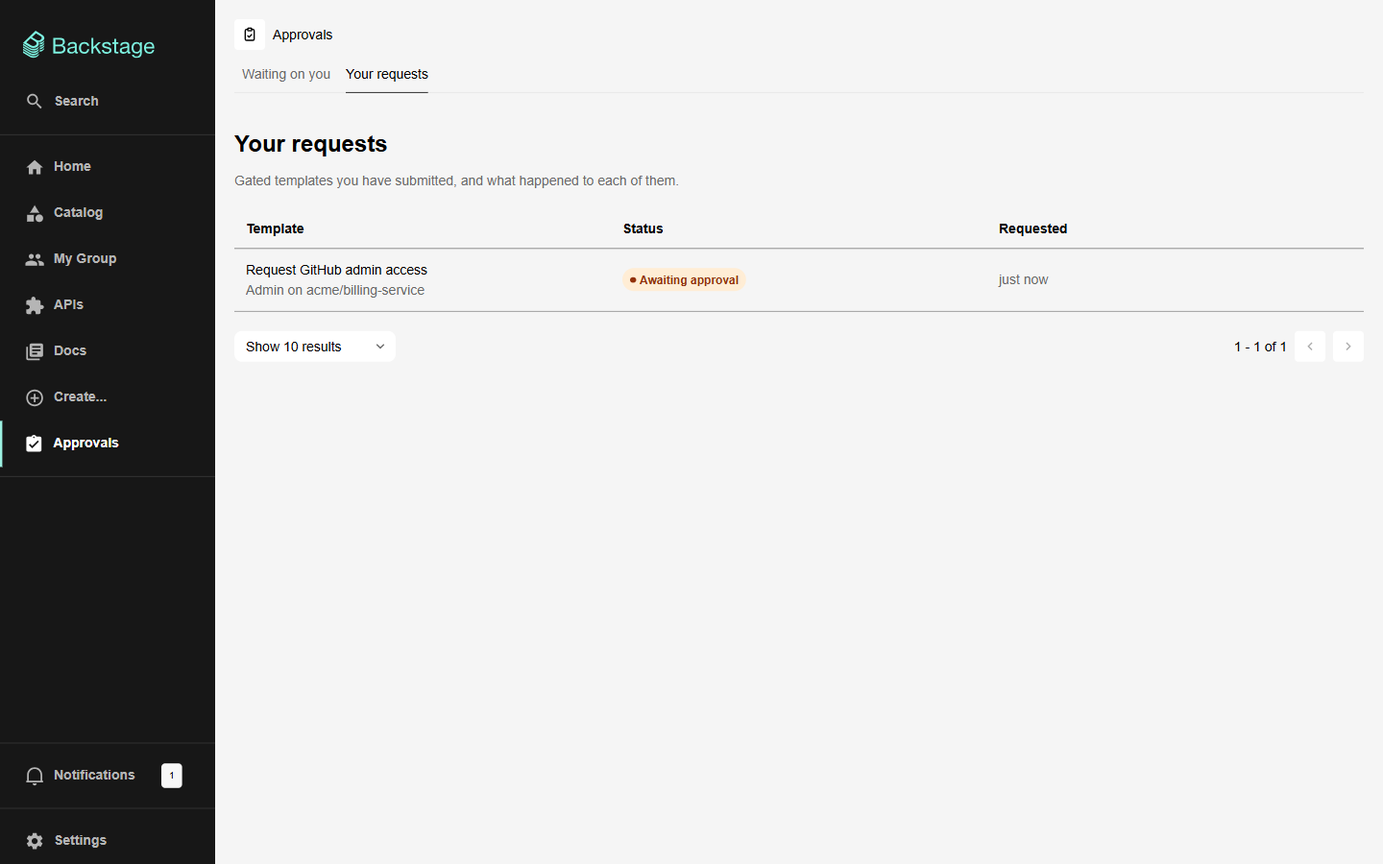
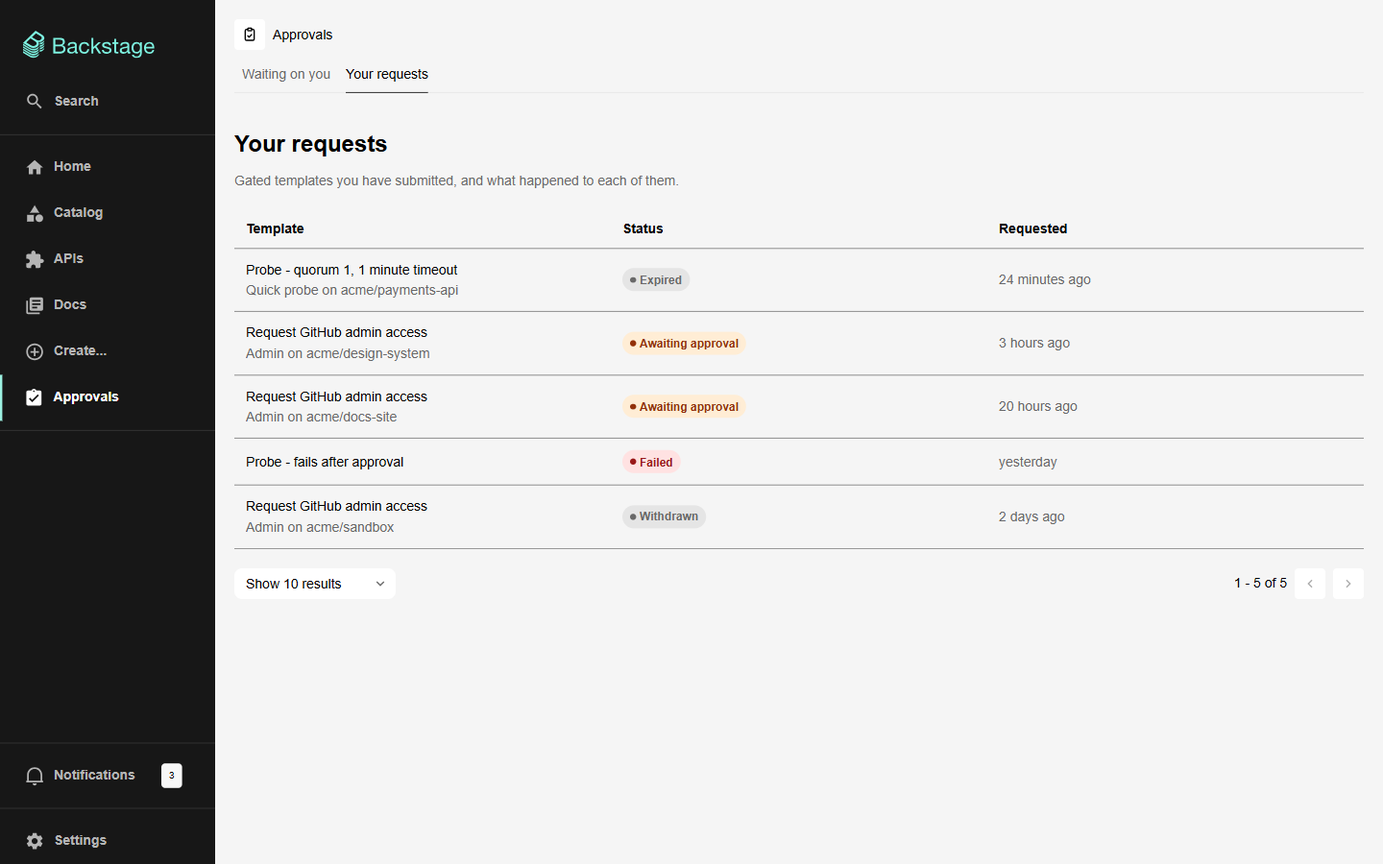
fix(scaffolder-approvals): request page layout and empty-list centring
- The request page no longer shows the "Waiting on you" and "Your
  requests" tabs: it belongs to neither list, and two tabs with neither
  selected read as a choice to make. The plugin's name in the header still
  links back to the inbox.
- Parameters move to the side column, under Details, each name over its
  value. On a narrow screen Details and Parameters now come straight after
  the decision panel, ahead of the activity history, so what is being
  decided is read before scrolling through who said what.
- The empty state of both lists is centred across the table rather than
  over its first column: BUI wraps it in a row-direction flex, so it now
  grows to the full width.

Screenshots in docs/browser-review/bui-redesign are retaken from a local
database seeded through the approvals API, and section 15 of the browser
review describes how.

diff --git a/plugins/scaffolder-approvals/src/components/RequestDetail/RequestDetail.tsx b/plugins/scaffolder-approvals/src/components/RequestDetail/RequestDetail.tsx
@@ -36,7 +36,6 @@ import {
   ButtonLink,
   Container,
   Flex,
-  Grid,
   Header,
   Skeleton,
   Text,
@@ -270,7 +269,7 @@ export function RequestDetail(props: RequestDetailProps) {
     request.requesterRef.toLocaleLowerCase('en-US');
 
   return (
-    <ApprovalsLayout>
+    <ApprovalsLayout tabs={false}>
       <RequestHeader request={request} status={status} />
 
       <Container>
@@ -279,29 +278,33 @@ export function RequestDetail(props: RequestDetailProps) {
               has to be read before the buttons. */}
           <DriftNotice drift={request.templateDrift} />
 
-          <Grid.Root columns={{ initial: '1', md: '3' }} gap="4">
-            <Grid.Item colSpan={{ initial: '1', md: '2' }}>
-              <Flex direction="column" gap="4">
-                <DecisionPanel
-                  request={request}
-                  status={status}
-                  progress={progress}
-                  eligibility={eligibility}
-                  isRequester={isRequester}
-                  busy={busy}
-                  onDecide={setDeciding}
-                  onWithdraw={() => setConfirmingWithdraw(true)}
-                  onResubmit={resubmit}
-                />
-                <RequestParameters request={request} />
-                <RequestActivity request={request} />
-              </Flex>
-            </Grid.Item>
+          <div className={styles.layout}>
+            <div className={styles.decision}>
+              <DecisionPanel
+                request={request}
+                status={status}
+                progress={progress}
+                eligibility={eligibility}
+                isRequester={isRequester}
+                busy={busy}
+                onDecide={setDeciding}
+                onWithdraw={() => setConfirmingWithdraw(true)}
+                onResubmit={resubmit}
+              />
+            </div>
 
-            <Grid.Item>
+            {/* Beside the decision on a wide screen, and straight under it on
+                a narrow one: what is being decided belongs next to the
+                buttons, ahead of the history. */}
+            <Flex direction="column" gap="4" className={styles.aside}>
               <RequestDetails request={request} status={status} />
-            </Grid.Item>
-          </Grid.Root>
+              <RequestParameters request={request} />
+            </Flex>
+
+            <div className={styles.activity}>
+              <RequestActivity request={request} />
+            </div>
+          </div>
         </Flex>
 
         {deciding && (
@@ -330,22 +333,23 @@ export function RequestDetail(props: RequestDetailProps) {
 /** The page's shape while the request loads, so nothing jumps when it lands. */
 function RequestSkeleton() {
   return (
-    <ApprovalsLayout>
+    <ApprovalsLayout tabs={false}>
       <Container>
         <Flex direction="column" gap="4" py="3" aria-busy="true">
           <Skeleton width="40%" height={32} />
           <Skeleton width="20%" height={18} />
-          <Grid.Root columns={{ initial: '1', md: '3' }} gap="4">
-            <Grid.Item colSpan={{ initial: '1', md: '2' }}>
-              <Flex direction="column" gap="4">
-                <Skeleton height={140} />
-                <Skeleton height={120} />
-              </Flex>
-            </Grid.Item>
-            <Grid.Item>
+          <div className={styles.layout}>
+            <div className={styles.decision}>
+              <Skeleton height={140} />
+            </div>
+            <Flex direction="column" gap="4" className={styles.aside}>
               <Skeleton height={200} />
-            </Grid.Item>
-          </Grid.Root>
+              <Skeleton height={120} />
+            </Flex>
+            <div className={styles.activity}>
+              <Skeleton height={160} />
+            </div>
+          </div>
         </Flex>
       </Container>
     </ApprovalsLayout>
@@ -423,7 +427,7 @@ function RequestLoadError(props: { error: Error }) {
   }
 
   return (
-    <ApprovalsLayout title="Approval request">
+    <ApprovalsLayout title="Approval request" tabs={false}>
       <Header title="Approval request" />
       <Container>{body}</Container>
     </ApprovalsLayout>

diff --git a/plugins/scaffolder-approvals/src/components/RequestDetail/RequestDetail.module.css b/plugins/scaffolder-approvals/src/components/RequestDetail/RequestDetail.module.css
@@ -39,6 +39,52 @@
   overflow-wrap: anywhere;
 }
 
+/*
+ * The page's grid. Named areas rather than BUI's Grid, because the order has
+ * to differ by width: on a wide screen the details and parameters sit beside
+ * the decision and its history; on a narrow one they come straight after the
+ * decision, ahead of the history, so what is being decided is read before
+ * scrolling through who said what. 1024px is BUI's `md` breakpoint.
+ */
+
+.layout {
+  display: grid;
+  grid-template-columns: minmax(0, 1fr);
+  grid-template-areas:
+    'decision'
+    'aside'
+    'activity';
+  gap: var(--bui-space-4);
+  align-items: start;
+}
+
+.decision {
+  grid-area: decision;
+  min-width: 0;
+}
+
+.aside {
+  grid-area: aside;
+  min-width: 0;
+}
+
+.activity {
+  grid-area: activity;
+  min-width: 0;
+}
+
+@media (min-width: 1024px) {
+  .layout {
+    grid-template-columns: minmax(0, 2fr) minmax(0, 1fr);
+    /* The side column spans both rows; the flexible second row takes any
+       height it adds, so the history still starts right under the panel. */
+    grid-template-rows: auto 1fr;
+    grid-template-areas:
+      'decision aside'
+      'activity aside';
+  }
+}
+
 /* The decision panel: tinted by where the request stands. */
 
 .panel {
@@ -134,7 +180,8 @@
   background-color: var(--bui-fg-success);
 }
 
-/* Parameters: a key/value list that stacks on a phone. */
+/* Parameters: each name over its value, as Details lays out its facts. The
+   card sits in the narrow side column, which has no room for two. */
 
 .values {
   display: flex;
@@ -143,9 +190,9 @@
 }
 
 .valueRow {
-  display: grid;
-  grid-template-columns: minmax(120px, 30%) minmax(0, 1fr);
-  gap: var(--bui-space-3);
+  display: flex;
+  flex-direction: column;
+  gap: var(--bui-space-1);
   padding-block: var(--bui-space-2);
   border-top: 1px solid var(--bui-border-1);
 }
@@ -190,13 +237,6 @@
   color: var(--bui-fg-primary);
   font-family: var(--bui-font-monospace);
   font-size: var(--bui-font-size-2);
-}
-
-@media (max-width: 640px) {
-  .valueRow {
-    grid-template-columns: minmax(0, 1fr);
-    gap: var(--bui-space-1);
-  }
 }
 
 /* Activity: a vertical timeline, one person per event. */

diff --git a/plugins/scaffolder-approvals/src/components/ApprovalsLayout.tsx b/plugins/scaffolder-approvals/src/components/ApprovalsLayout.tsx
@@ -51,8 +51,7 @@ export function DocumentTitle(props: { title: string }) {
  *
  * The tabs are routes rather than in-page state, so each list has an address:
  * going back from a request returns to the list it was opened from, and
- * "Your requests" can be linked to. A request page keeps the tabs, with
- * neither selected, as the way back to both lists.
+ * "Your requests" can be linked to.
  *
  * Drawn by the plugin in both frontend systems: the new one is told not to
  * draw its own (`noHeader`), so the two look the same.
@@ -67,9 +66,16 @@ export function ApprovalsLayout(props: {
    * rewrites the title as it changes and could put the first one back.
    */
   title?: string;
+  /**
+   * Whether to show the two lists as tabs. A request page leaves them out:
+   * it belongs to neither list, and two tabs with neither selected read as a
+   * choice to make. Its way back is the plugin's name, which links to the
+   * inbox.
+   */
+  tabs?: boolean;
   children: ReactNode;
 }) {
-  const { title, children } = props;
+  const { title, tabs = true, children } = props;
   const rootPath = useRouteRef(rootRouteRef)();
 
   return (
@@ -79,19 +85,23 @@ export function ApprovalsLayout(props: {
         icon={<ApprovalsIcon fontSize="inherit" />}
         title="Approvals"
         titleLink={rootPath}
-        tabs={[
-          {
-            id: 'inbox',
-            label: 'Waiting on you',
-            href: rootPath,
-            matchStrategy: 'exact',
-          },
-          {
-            id: 'mine',
-            label: 'Your requests',
-            href: `${rootPath}${YOUR_REQUESTS_PATH}`,
-          },
-        ]}
+        tabs={
+          tabs
+            ? [
+                {
+                  id: 'inbox',
+                  label: 'Waiting on you',
+                  href: rootPath,
+                  matchStrategy: 'exact',
+                },
+                {
+                  id: 'mine',
+                  label: 'Your requests',
+                  href: `${rootPath}${YOUR_REQUESTS_PATH}`,
+                },
+              ]
+            : undefined
+        }
       />
       {children}
     </>

diff --git a/plugins/scaffolder-approvals/src/components/RequestDetail/RequestDetail.test.tsx b/plugins/scaffolder-approvals/src/components/RequestDetail/RequestDetail.test.tsx
@@ -142,18 +142,16 @@ describe('RequestDetail', () => {
     expect(label?.nextElementSibling).toHaveTextContent('Awaiting approval');
   });
 
-  it('keeps the way back to both lists', async () => {
-    // The plugin header's tabs, with neither selected on a request.
+  it('leaves the list tabs out, and links back through the plugin name', async () => {
+    // A request belongs to neither list, and two tabs with neither selected
+    // read as a choice to make.
     await render({ getRequest: jest.fn().mockResolvedValue(REQUEST) });
 
     await screen.findByText('Admin on backstage');
-    expect(screen.getByRole('tab', { name: 'Waiting on you' })).toHaveAttribute(
+    expect(screen.queryByRole('tab')).not.toBeInTheDocument();
+    expect(screen.getByRole('link', { name: 'Approvals' })).toHaveAttribute(
       'href',
       '/scaffolder-approvals',
-    );
-    expect(screen.getByRole('tab', { name: 'Your requests' })).toHaveAttribute(
-      'href',
-      '/scaffolder-approvals/mine',
     );
   });
 

diff --git a/plugins/scaffolder-approvals/src/components/ApprovalsPage/RequestsTable.tsx b/plugins/scaffolder-approvals/src/components/ApprovalsPage/RequestsTable.tsx
@@ -90,6 +90,10 @@ function RequesterCell(props: { item: Row }) {
  * Not core-components' `EmptyState`: its illustration is taller than the
  * table's empty row, so the table overflowed BUI's scroll container and
  * showed a scrollbar with nothing to scroll (B15 in the browser review).
+ *
+ * `grow`, because BUI puts the empty state in a row of its own: without it
+ * this took only its content's width, and sat centred over the first column
+ * rather than the table.
  */
 function EmptyRow(props: { title: string; description: string }) {
   return (
@@ -99,6 +103,7 @@ function EmptyRow(props: { title: string; description: string }) {
       gap="2"
       py="8"
       px="4"
+      grow
       className={styles.empty}
     >
       <span className={styles.emptyIcon} aria-hidden="true">

diff --git a/plugins/scaffolder-approvals/src/components/RequestDetail/RequestSections.tsx b/plugins/scaffolder-approvals/src/components/RequestDetail/RequestSections.tsx
@@ -78,7 +78,7 @@ export function RequestParameters(props: {
       <Text color="secondary">
         The submitted parameters were removed on{' '}
         {redactedAt ? formatDateTime(redactedAt) : 'expiry'} by the retention
-        policy. The decision history below is kept indefinitely.
+        policy. The decision history is kept indefinitely.
       </Text>
     );
   } else if (Object.keys(values).length === 0) {

diff --git a/docs/GATED_SCAFFOLDER_BROWSER_REVIEW.md b/docs/GATED_SCAFFOLDER_BROWSER_REVIEW.md
@@ -1023,37 +1023,43 @@ On 3 Oct 2026, on the branch `feat/bui-redesign`, the frontend plugin's pages we
 
 ### 15.1 What changed
 
-| Page               | Now                                                                                                                                                                                                                                                                                                                                                                                                                                                  |
-| ------------------ | ---------------------------------------------------------------------------------------------------------------------------------------------------------------------------------------------------------------------------------------------------------------------------------------------------------------------------------------------------------------------------------------------------------------------------------------------------- |
-| Every page         | BUI's `PluginHeader` names the plugin, with **Waiting on you** and **Your requests** as route tabs: `/scaffolder-approvals` and the new `/scaffolder-approvals/mine`, so going back from a request returns to the list it came from. BUI's `Header` titles each page, and the tab title is set as core-components' header set it. The new frontend system's page is registered with `noHeader`, so the plugin's header is the only one.              |
-| Request page       | A decision panel at the top, tinted by status, holds the outcome or "1 of 2 approvals needed." with a quorum meter, who can approve, and whatever the viewer can do: Approve and Deny, the reason they cannot, Withdraw, Resubmit or **View task log**. Below it, Parameters as a key/value list, Activity as a timeline of who asked and who decided, with their comments, and a Details card. The drift warning is a BUI `Alert`, above all of it. |
-| Lists              | The requester's initials beside their name, relative times with the exact time on hover, and an empty state with an icon.                                                                                                                                                                                                                                                                                                                            |
-| Status pill        | BUI's `Badge`, tinted from BUI's status colours, at a readable size.                                                                                                                                                                                                                                                                                                                                                                                 |
-| Dialogs            | Deny and Withdraw confirm with destructive buttons, and name the request in bold.                                                                                                                                                                                                                                                                                                                                                                    |
-| Wizard review step | An outlined notice card with the approvers, and Back and **Request approval** where the scaffolder puts Back and Create. A template the backend would refuse is a danger `Alert`.                                                                                                                                                                                                                                                                    |
-| Home card          | A BUI `Card` with an icon tile that turns amber when something is waiting.                                                                                                                                                                                                                                                                                                                                                                           |
+| Page               | Now                                                                                                                                                                                                                                                                                                                                                                                                                                                                                                                                                                              |
+| ------------------ | -------------------------------------------------------------------------------------------------------------------------------------------------------------------------------------------------------------------------------------------------------------------------------------------------------------------------------------------------------------------------------------------------------------------------------------------------------------------------------------------------------------------------------------------------------------------------------- |
+| Every page         | BUI's `PluginHeader` names the plugin, and on the two lists carries **Waiting on you** and **Your requests** as route tabs: `/scaffolder-approvals` and the new `/scaffolder-approvals/mine`, so going back from a request returns to the list it came from. A request page leaves the tabs out, since it belongs to neither list; the plugin's name links back to the inbox. BUI's `Header` titles each page, and the tab title is set as core-components' header set it. The new frontend system's page is registered with `noHeader`, so the plugin's header is the only one. |
+| Request page       | A decision panel at the top, tinted by status, holds the outcome or "1 of 2 approvals needed." with a quorum meter, who can approve, and whatever the viewer can do: Approve and Deny, the reason they cannot, Withdraw, Resubmit or **View task log**. Activity, a timeline of who asked and who decided with their comments, sits under it; Details and Parameters sit beside it, and on a narrow screen come straight after it, ahead of the history. The drift warning is a BUI `Alert`, above all of it.                                                                    |
+| Lists              | The requester's initials beside their name, relative times with the exact time on hover, and an empty state centred across the table.                                                                                                                                                                                                                                                                                                                                                                                                                                            |
+| Status pill        | BUI's `Badge`, tinted from BUI's status colours, at a readable size.                                                                                                                                                                                                                                                                                                                                                                                                                                                                                                             |
+| Dialogs            | Deny and Withdraw confirm with destructive buttons, and name the request in bold.                                                                                                                                                                                                                                                                                                                                                                                                                                                                                                |
+| Wizard review step | An outlined notice card with the approvers, and Back and **Request approval** where the scaffolder puts Back and Create. A template the backend would refuse is a danger `Alert`.                                                                                                                                                                                                                                                                                                                                                                                                |
+| Home card          | A BUI `Card` with an icon tile that turns amber when something is waiting.                                                                                                                                                                                                                                                                                                                                                                                                                                                                                                       |
 
 ### 15.2 Tests
 
-The component tests were kept, and adjusted only where they asserted the old markup: the header is no longer a `banner` landmark, the request's title is the page's second-level heading under the plugin header's "Approvals", and the two lists are route tabs rather than tab panels. The test for the two tabs now checks that each links to its list, and one was added for the same tabs on a request page.
+The component tests were kept, and adjusted only where they asserted the old markup: the header is no longer a `banner` landmark, the request's title is the page's second-level heading under the plugin header's "Approvals", and the two lists are route tabs rather than tab panels. The test for the two tabs now checks that each links to its list, and one was added for a request page: no tabs, and the plugin's name links to the inbox.
 
 ### 15.3 In the browser
 
-Run against the full app on a scratch database, as `requester`, `alice` and `bob`, and against the dev harness, through the Playwright MCP server at 1440×900 and 390×844, in both themes.
+Run through the Playwright MCP server at 1440×900 and 390×844, in both themes, against the full app and against the dev harness.
 
-| Journey                                                                           | Screens        |
-| --------------------------------------------------------------------------------- | -------------- |
-| The requester submits from the wizard and lands on their pending request          | 03, 05, 02     |
-| Alice approves with a comment; the request stays pending, one of two              | 16, 01, 07, 18 |
-| Bob approves; the template runs and the request completes, with its task link     | 06             |
-| The drift warning, above the decide buttons (API response patched in the browser) | 04             |
-| Withdrawing asks first                                                            | 08             |
-| A template the backend would refuse                                               | 17             |
-| An empty inbox and home card, and a link to a request that does not exist         | 11, 12, 13     |
-| Dark theme                                                                        | 09, 10         |
-| Phone width: titles wrap rather than truncate, and nothing scrolls sideways       | 14, 15         |
+The flows were walked end to end on a scratch database first, as `requester`, `alice` and `bob`: submitting from the wizard, a first approval that leaves a request pending, a second that launches the template and completes it with its task link, withdrawing, and denying. The repository's local database was then seeded the same way, through the approvals API, signed in in turn as the default guest, `requester`, `outsider`, `alice` and `bob`, so every request, hash, decision and task is a real one: 22 requests across every status, three of them run by the scaffolder to completion and three to failure. Their timestamps were then spread over five weeks, one old request was redacted as the retention sweep would, and the default guest was added as an approver on five pending requests, so that a plain `yarn start` has an inbox to look at.
 
-Denying and withdrawing were also carried through to their end states in the dev harness.
+The screenshots are of that data, signed in as the default guest:
+
+| Screen | What it shows                                                                                         |
+| ------ | ----------------------------------------------------------------------------------------------------- |
+| 01     | The inbox: five requests the guest can decide                                                         |
+| 02     | Your requests: every status the guest's own requests reached                                          |
+| 03     | The wizard's review step for a gated template                                                         |
+| 04     | The drift warning, above the decide buttons (API response patched in the browser)                     |
+| 05, 18 | The guest's own requests, pending and one approval in                                                 |
+| 06     | A completed request, with its task link                                                               |
+| 07, 08 | The approve and withdraw dialogs                                                                      |
+| 09, 10 | Dark theme                                                                                            |
+| 11, 12 | Empty inbox and home card (list answered empty in the browser)                                        |
+| 13     | A link to a request that does not exist                                                               |
+| 14, 15 | Phone width: titles wrap rather than truncate, and the details and parameters come before the history |
+| 16     | The home card with requests waiting                                                                   |
+| 17     | A template the backend would refuse                                                                   |
 
 ### 15.4 Still open
 

diff --git a/plugins/scaffolder-approvals/README.md b/plugins/scaffolder-approvals/README.md
@@ -40,7 +40,7 @@ Both entrypoints mount the same components; only the wiring differs.
 
 The inbox lists only pending requests — somebody looking for work does not want a history of everything they ever approved. Your own requests list every status, because "it failed" is often the answer you need.
 
-The pages are built from [Backstage UI](https://ui.backstage.io): BUI's plugin header names the plugin and carries the two lists as tabs, and a request page puts where it stands — and the approve, deny, withdraw or resubmit buttons — in one panel at the top, above its parameters, its activity and its details. The plugin draws that header itself in both frontend systems, so the new-system page is registered with `noHeader`.
+The pages are built from [Backstage UI](https://ui.backstage.io): BUI's plugin header names the plugin and carries the two lists as tabs. A request page puts where it stands — and the approve, deny, withdraw or resubmit buttons — in one panel at the top, with its activity under it and its details and parameters beside it; on a narrow screen the details and parameters come straight after the panel. The plugin draws that header itself in both frontend systems, so the new-system page is registered with `noHeader`.
 
 ## Notes
 
